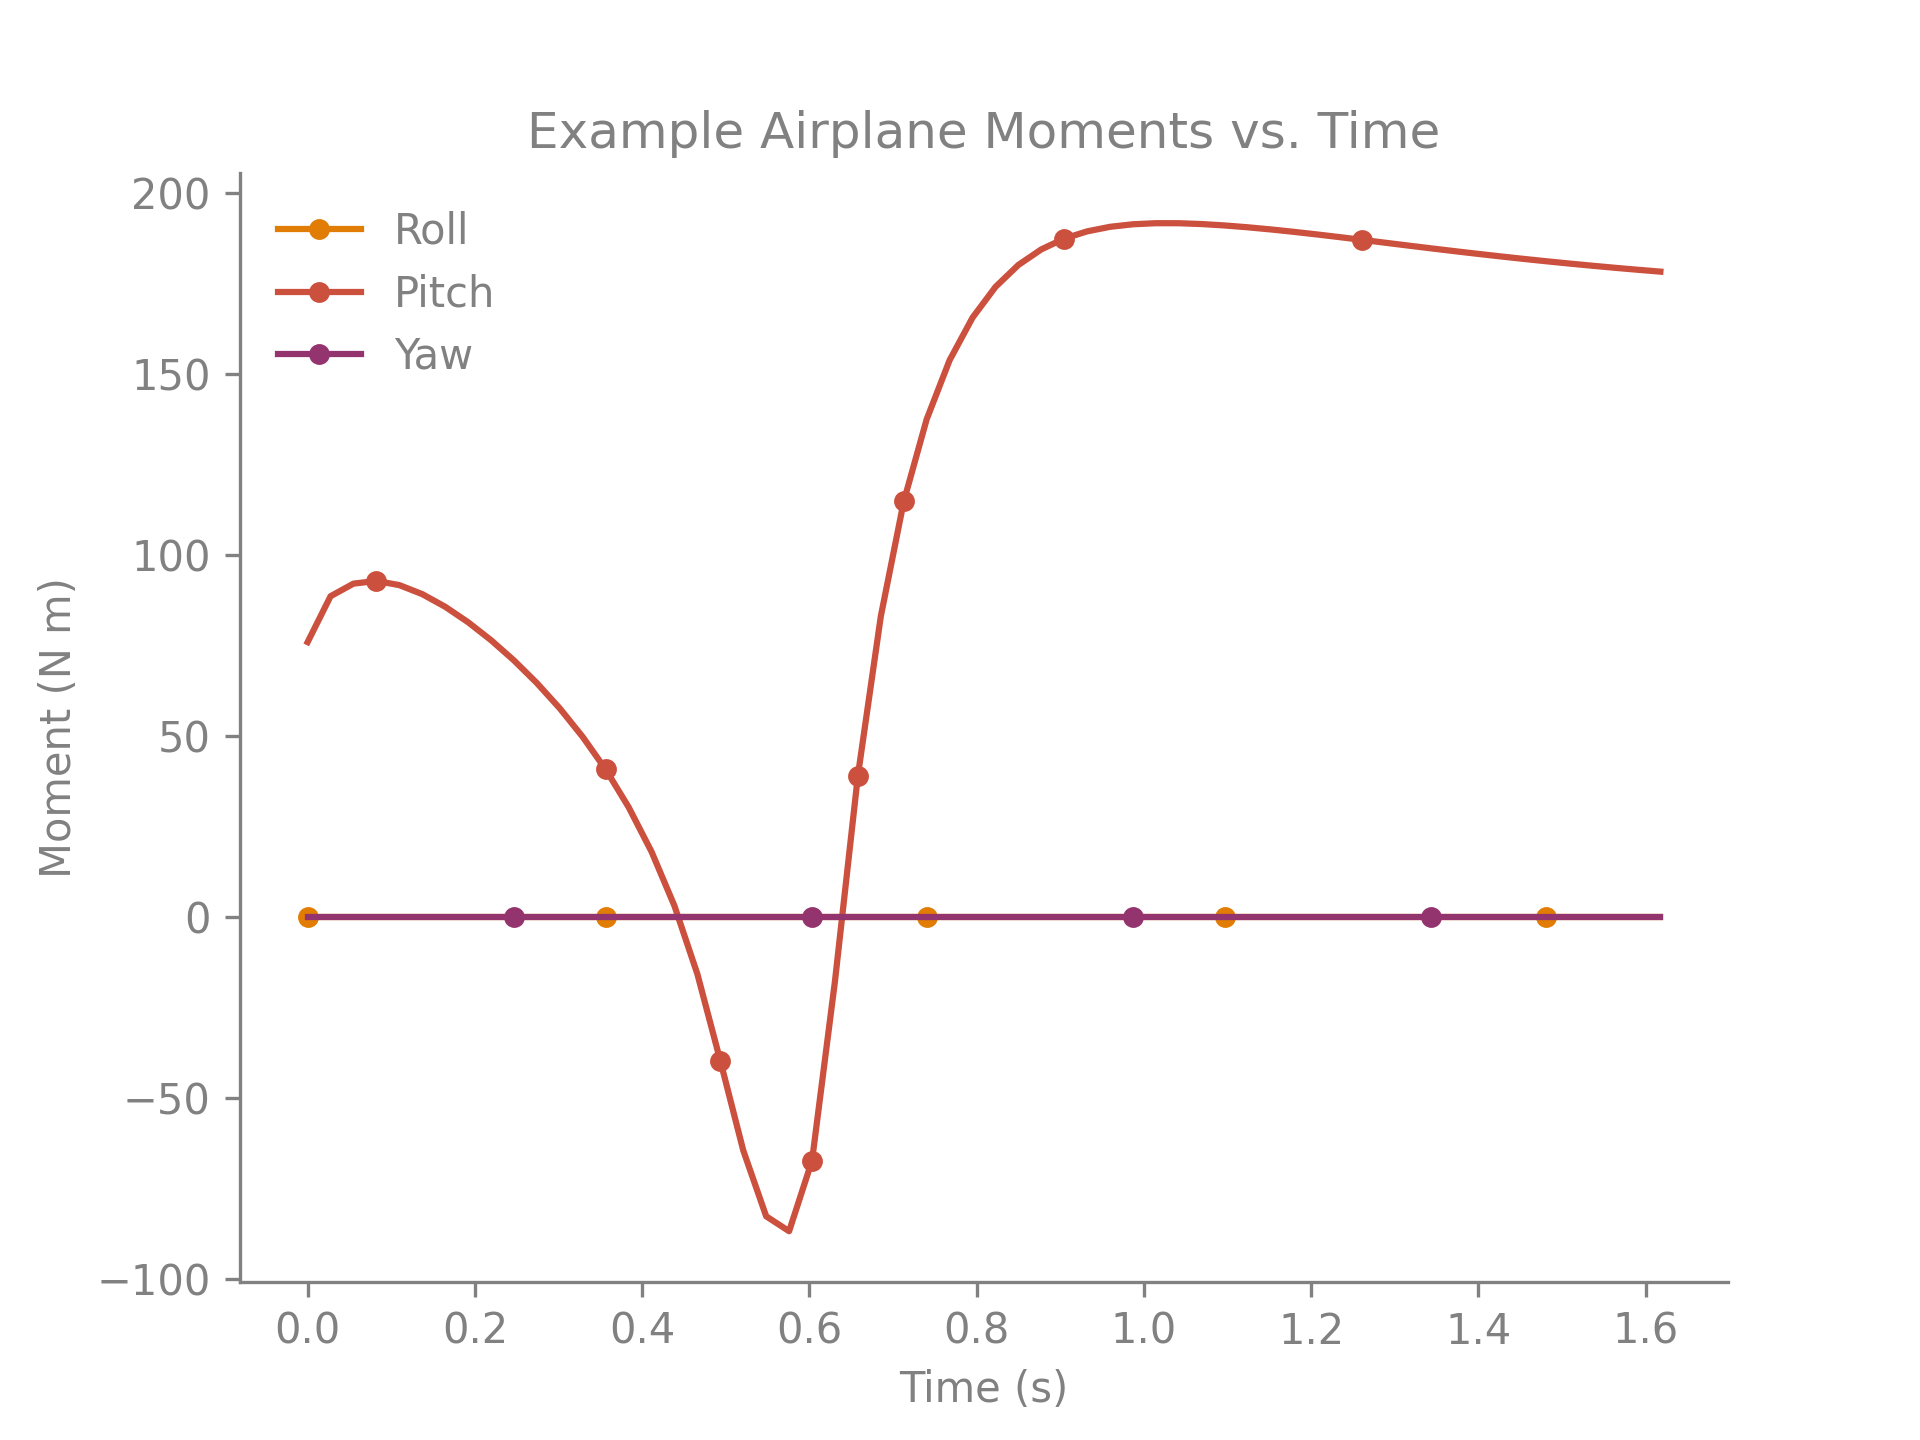
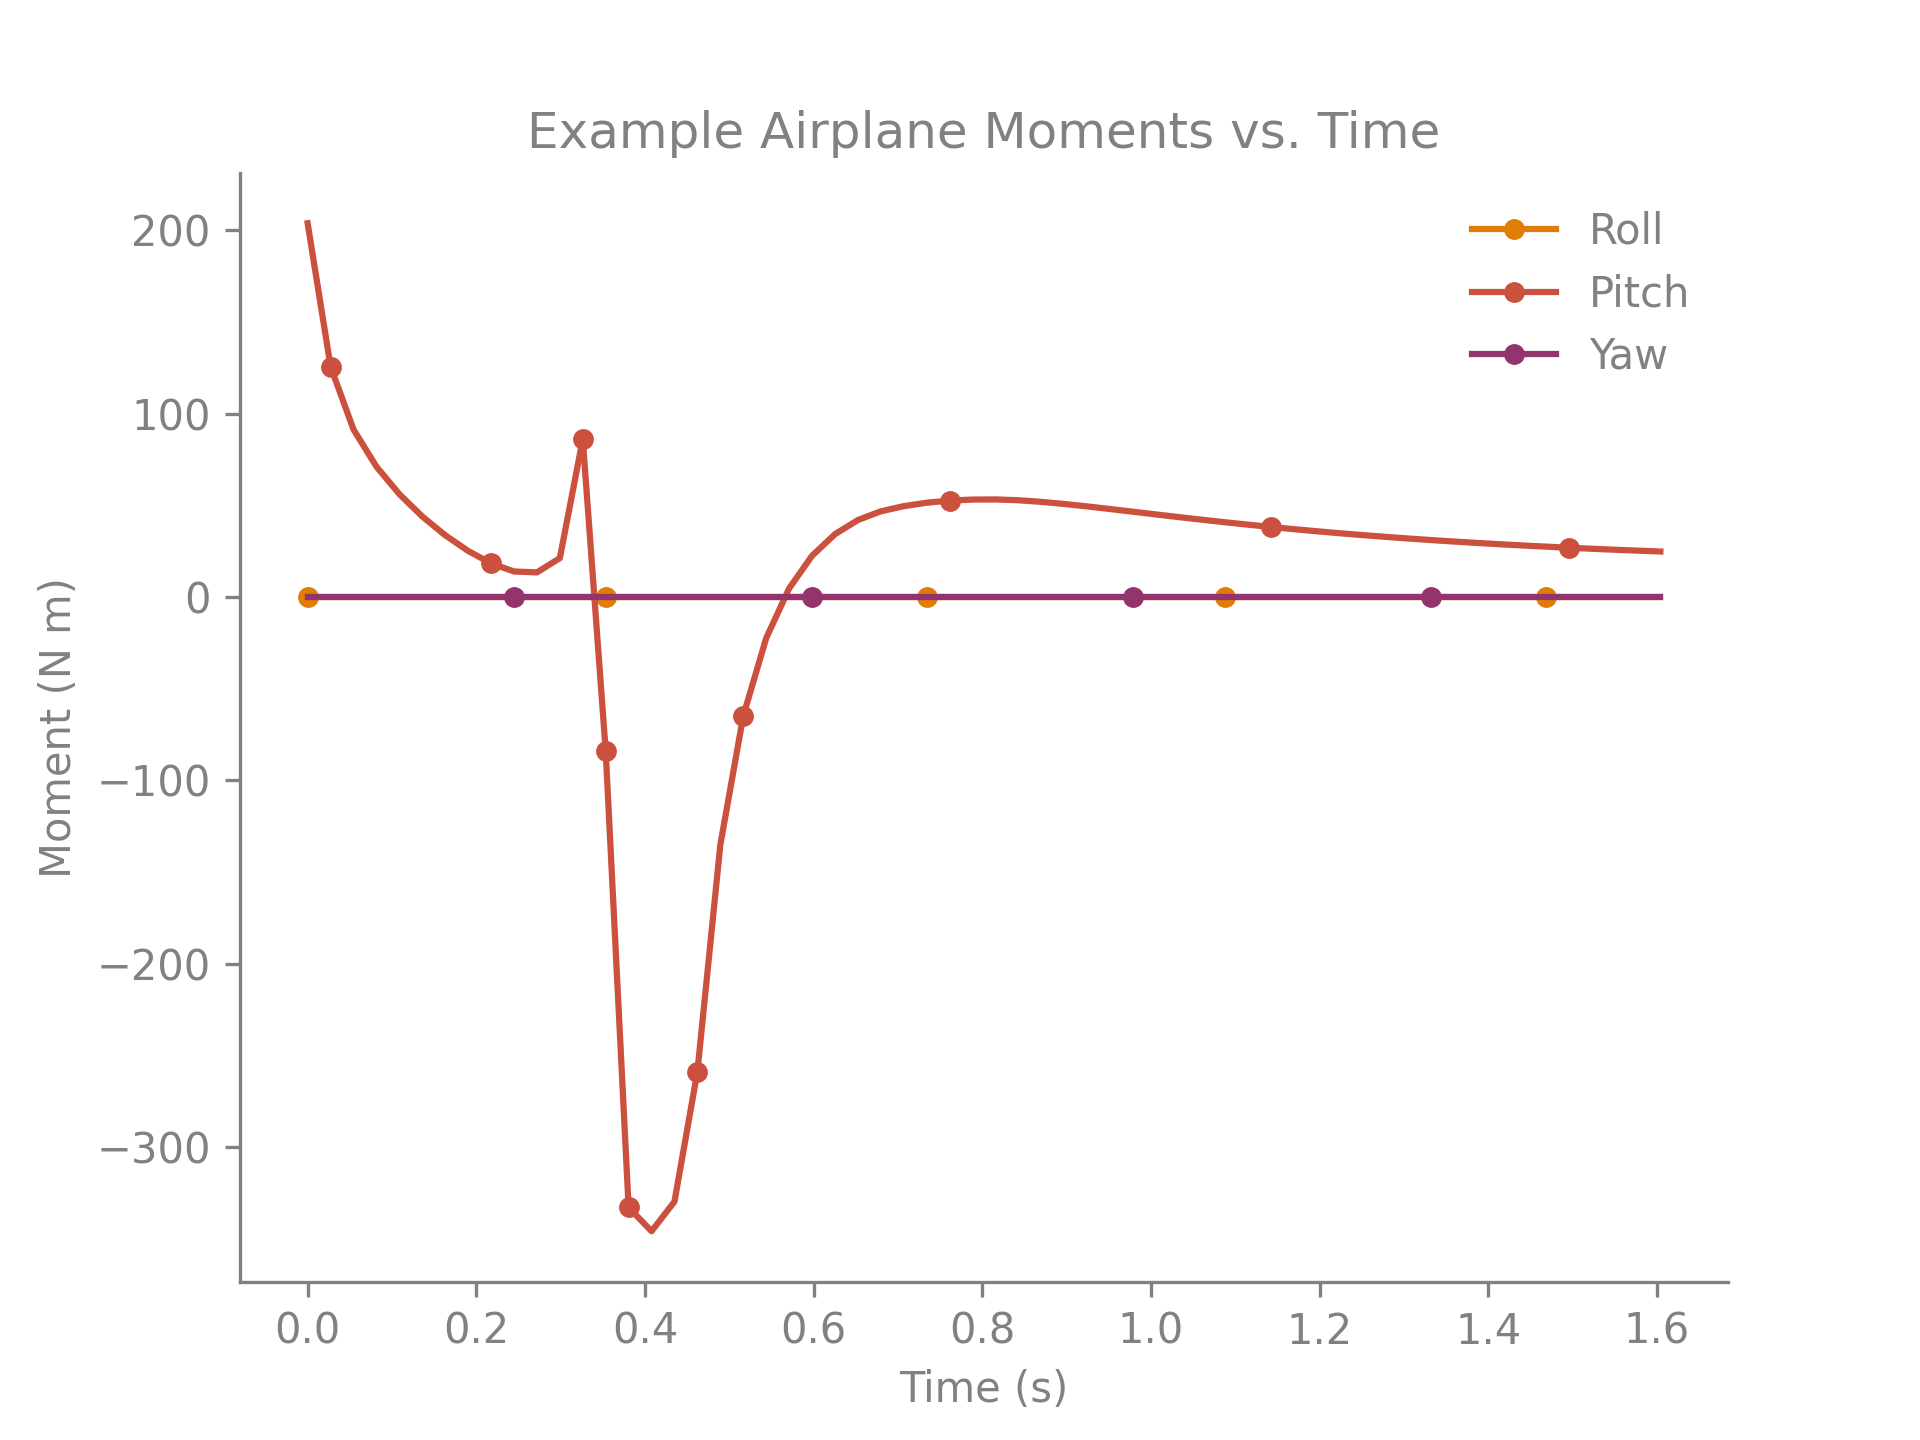
I updated the README to use the new syntax for the example code and to use new images for example outputs.

diff --git a/examples/unsteady_ring_vortex_lattice_method_solver_variable_formation.py b/examples/unsteady_ring_vortex_lattice_method_solver_variable_formation.py
@@ -16,10 +16,10 @@ lead_airplane = ps.geometry.airplane.Airplane(
                     airfoil=ps.geometry.airfoil.Airfoil(
                         name="naca0012",
                     ),
-                    num_spanwise_panels=8,
+                    num_spanwise_panels=10,
                     chord=1.75,
                     control_surface_symmetry_type="symmetric",
-                    spanwise_spacing="uniform",
+                    spanwise_spacing="cosine",
                 ),
                 ps.geometry.wing_cross_section.WingCrossSection(
                     airfoil=ps.geometry.airfoil.Airfoil(
@@ -33,7 +33,7 @@ lead_airplane = ps.geometry.airplane.Airplane(
                 ),
             ],
             name="Main Wing",
-            Ler_Gs_Cgs=(0.0, 0.5, 0.0),
+            Ler_Gs_Cgs=(0.0, 0.25, 0.0),
             angles_Gs_to_Wn_ixyz=(0.0, 5.0, 0.0),
             symmetric=True,
             symmetryNormal_G=(0.0, 1.0, 0.0),
@@ -68,7 +68,7 @@ lead_airplane_movement = ps.movements.airplane_movement.AirplaneMovement(
                     ]
                 ),
             ],
-            ampAngles_Gs_to_Wn_ixyz=(15.0, 0.0, 0.0),
+            ampAngles_Gs_to_Wn_ixyz=(25.0, 0.0, 0.0),
             periodAngles_Gs_to_Wn_ixyz=(1.0, 0.0, 0.0),
             spacingAngles_Gs_to_Wn_ixyz=("sine", "sine", "sine"),
             phaseAngles_Gs_to_Wn_ixyz=(0.0, 0.0, 0.0),
@@ -90,7 +90,7 @@ lead_airplane_movement = ps.movements.airplane_movement.AirplaneMovement(
                     ]
                 ),
             ],
-            ampAngles_Gs_to_Wn_ixyz=(15.0, 0.0, 0.0),
+            ampAngles_Gs_to_Wn_ixyz=(25.0, 0.0, 0.0),
             periodAngles_Gs_to_Wn_ixyz=(1.0, 0.0, 0.0),
             spacingAngles_Gs_to_Wn_ixyz=("sine", "sine", "sine"),
             phaseAngles_Gs_to_Wn_ixyz=(0.0, 0.0, 0.0),
@@ -107,10 +107,10 @@ trailing_right_airplane = ps.geometry.airplane.Airplane(
                     airfoil=ps.geometry.airfoil.Airfoil(
                         name="naca0012",
                     ),
-                    num_spanwise_panels=8,
+                    num_spanwise_panels=10,
                     chord=1.75,
                     control_surface_symmetry_type="symmetric",
-                    spanwise_spacing="uniform",
+                    spanwise_spacing="cosine",
                 ),
                 ps.geometry.wing_cross_section.WingCrossSection(
                     airfoil=ps.geometry.airfoil.Airfoil(
@@ -124,7 +124,7 @@ trailing_right_airplane = ps.geometry.airplane.Airplane(
                 ),
             ],
             name="Main Wing",
-            Ler_Gs_Cgs=(0.0, 0.5, 0.0),
+            Ler_Gs_Cgs=(0.0, 0.25, 0.0),
             angles_Gs_to_Wn_ixyz=(0.0, 5.0, 0.0),
             symmetric=True,
             symmetryNormal_G=(0.0, 1.0, 0.0),
@@ -156,7 +156,7 @@ trailing_right_airplane_movement = ps.movements.airplane_movement.AirplaneMoveme
                     ].wing_cross_sections[1]
                 ),
             ],
-            ampAngles_Gs_to_Wn_ixyz=(15.0, 0.0, 0.0),
+            ampAngles_Gs_to_Wn_ixyz=(25.0, 0.0, 0.0),
             periodAngles_Gs_to_Wn_ixyz=(1.0, 0.0, 0.0),
             spacingAngles_Gs_to_Wn_ixyz=("sine", "sine", "sine"),
             phaseAngles_Gs_to_Wn_ixyz=(0.0, 0.0, 0.0),
@@ -175,7 +175,7 @@ trailing_right_airplane_movement = ps.movements.airplane_movement.AirplaneMoveme
                     ].wing_cross_sections[1]
                 ),
             ],
-            ampAngles_Gs_to_Wn_ixyz=(15.0, 0.0, 0.0),
+            ampAngles_Gs_to_Wn_ixyz=(25.0, 0.0, 0.0),
             periodAngles_Gs_to_Wn_ixyz=(1.0, 0.0, 0.0),
             spacingAngles_Gs_to_Wn_ixyz=("sine", "sine", "sine"),
             phaseAngles_Gs_to_Wn_ixyz=(0.0, 0.0, 0.0),
@@ -192,10 +192,10 @@ trailing_left_airplane = ps.geometry.airplane.Airplane(
                     airfoil=ps.geometry.airfoil.Airfoil(
                         name="naca0012",
                     ),
-                    num_spanwise_panels=8,
+                    num_spanwise_panels=10,
                     chord=1.75,
                     control_surface_symmetry_type="symmetric",
-                    spanwise_spacing="uniform",
+                    spanwise_spacing="cosine",
                 ),
                 ps.geometry.wing_cross_section.WingCrossSection(
                     airfoil=ps.geometry.airfoil.Airfoil(
@@ -209,7 +209,7 @@ trailing_left_airplane = ps.geometry.airplane.Airplane(
                 ),
             ],
             name="Main Wing",
-            Ler_Gs_Cgs=(0.0, 0.5, 0.0),
+            Ler_Gs_Cgs=(0.0, 0.25, 0.0),
             angles_Gs_to_Wn_ixyz=(0.0, 5.0, 0.0),
             symmetric=True,
             symmetryNormal_G=(0.0, 1.0, 0.0),
@@ -241,7 +241,7 @@ left_airplane_movement = ps.movements.airplane_movement.AirplaneMovement(
                     ].wing_cross_sections[1]
                 ),
             ],
-            ampAngles_Gs_to_Wn_ixyz=(15.0, 0.0, 0.0),
+            ampAngles_Gs_to_Wn_ixyz=(25.0, 0.0, 0.0),
             periodAngles_Gs_to_Wn_ixyz=(1.0, 0.0, 0.0),
             spacingAngles_Gs_to_Wn_ixyz=("sine", "sine", "sine"),
             phaseAngles_Gs_to_Wn_ixyz=(0.0, 0.0, 0.0),
@@ -260,7 +260,7 @@ left_airplane_movement = ps.movements.airplane_movement.AirplaneMovement(
                     ].wing_cross_sections[1]
                 ),
             ],
-            ampAngles_Gs_to_Wn_ixyz=(15.0, 0.0, 0.0),
+            ampAngles_Gs_to_Wn_ixyz=(25.0, 0.0, 0.0),
             periodAngles_Gs_to_Wn_ixyz=(1.0, 0.0, 0.0),
             spacingAngles_Gs_to_Wn_ixyz=("sine", "sine", "sine"),
             phaseAngles_Gs_to_Wn_ixyz=(0.0, 0.0, 0.0),
@@ -270,7 +270,7 @@ left_airplane_movement = ps.movements.airplane_movement.AirplaneMovement(
 
 # Define an OperatingPoint. This defines the state at which all the Airplanes are
 # operating.
-operating_point = ps.operating_point.OperatingPoint(vCg__E=10.0, alpha=0.0)
+operating_point = ps.operating_point.OperatingPoint(vCg__E=15.0, alpha=0.0)
 
 # Define the OperatingPoint's OperatingPointMovement.
 operating_point_movement = ps.movements.operating_point_movement.OperatingPointMovement(
@@ -293,7 +293,7 @@ movement = ps.movements.movement.Movement(
         left_airplane_movement,
     ],
     operating_point_movement=operating_point_movement,
-    num_cycles=2,
+    num_cycles=3,
 )
 
 # Delete the extraneous pointers to the AirplaneMovements and the

diff --git a/pterasoftware/_aerodynamics.py b/pterasoftware/_aerodynamics.py
@@ -468,7 +468,7 @@ def collapsed_velocities_from_ring_vortices(
     simulation performance, it does cause a performance drop for the less intense
     steady simulations.
 
-    # DOCUMENT: Update docstring parameters' descriptions and types.
+    DOCUMENT: Update docstring parameters' descriptions and types.
     :param stackP_GP1_CgP1: 2D array of floats
         This variable is an array of shape (N x 3), where N is the number of points.
         Each row contains the x, y, and z float coordinates of that point's position
@@ -559,7 +559,7 @@ def collapsed_velocities_from_ring_vortices_chordwise_segments(
     simulation performance, it does cause a performance drop for the less intense
     steady simulations.
 
-    # DOCUMENT: Update docstring parameters' descriptions and types.
+    DOCUMENT: Update docstring parameters' descriptions and types.
     :param stackP_GP1_CgP1: 2D array of floats
         This variable is an array of shape (N x 3), where N is the number of points.
         Each row contains the x, y, and z float coordinates of that point's position
@@ -645,7 +645,7 @@ def expanded_velocities_from_ring_vortices(
     simulation performance, it does cause a performance drop for the less intense
     steady simulations.
 
-    # DOCUMENT: Update docstring parameters' descriptions and types.
+    DOCUMENT: Update docstring parameters' descriptions and types.
     :param stackP_GP1_CgP1: 2D array of floats
         This variable is an array of shape (N x 3), where N is the number of points.
         Each row contains the x, y, and z float coordinates of that point's position
@@ -736,7 +736,7 @@ def collapsed_velocities_from_horseshoe_vortices(
     simulation performance, it does cause a performance drop for the less intense
     steady simulations.
 
-    # DOCUMENT: Update docstring parameters' descriptions and types.
+    DOCUMENT: Update docstring parameters' descriptions and types.
     :param stackP_GP1_CgP1: 2D array of floats
         This variable is an array of shape (N x 3), where N is the number of points.
         Each row contains the x, y, and z float coordinates of that point's position
@@ -825,7 +825,7 @@ def expanded_velocities_from_horseshoe_vortices(
     simulation performance, it does cause a performance drop for the less intense
     steady simulations.
 
-    # DOCUMENT: Update docstring parameters' descriptions and types.
+    DOCUMENT: Update docstring parameters' descriptions and types.
     :param stackP_GP1_CgP1: 2D array of floats
         This variable is an array of shape (N x 3), where N is the number of points.
         Each row contains the x, y, and z float coordinates of that point's position
@@ -1003,7 +1003,7 @@ def _collapsed_velocities_from_line_vortices(
     simulation performance, it does cause a performance drop for the less intense
     steady simulations.
 
-    # DOCUMENT: Update docstring parameters' types and descriptions.
+    DOCUMENT: Update docstring parameters' types and descriptions.
     :param stackP_GP1_CgP1: 2D array of floats
         This variable is an array of shape (N x 3), where N is the number of points.
         Each row contains the x, y, and z float coordinates of that point's position
@@ -1139,7 +1139,7 @@ def _expanded_velocities_from_line_vortices(
     simulation performance, it does cause a performance drop for the less intense
     steady simulations.
 
-     # DOCUMENT: Update docstring parameters' types and descriptions.
+    DOCUMENT: Update docstring parameters' types and descriptions.
     :param stackP_GP1_CgP1: 2D array of floats
         This variable is an array of shape (N x 3), where N is the number of points.
         Each row contains the x, y, and z float coordinates of that point's position

diff --git a/gui/main.py b/gui/main.py
@@ -6,6 +6,9 @@ import sys
 import time
 import importlib
 
+# Add the gui directory to the Python path so ui_resources can be imported.
+sys.path.insert(0, os.path.dirname(os.path.abspath(__file__)))
+
 from PySide6.QtCore import Qt
 from PySide6.QtGui import QPixmap
 from PySide6.QtWidgets import QMainWindow, QApplication, QSplashScreen, QDialog
@@ -13,8 +16,8 @@ from PySide6.QtWidgets import QMainWindow, QApplication, QSplashScreen, QDialog
 from _resources.main_window import Ui_MainWindowDesign
 from _resources.textdialog import Ui_TextAboutDialog
 
-# Add the gui directory to the Python path so ui_resources can be imported.
-sys.path.insert(0, os.path.dirname(os.path.abspath(__file__)))
+# Get the project root directory (parent of the gui directory).
+project_root = os.path.dirname(os.path.dirname(os.path.abspath(__file__)))
 
 
 class TextAboutDialog(QDialog):
@@ -61,7 +64,8 @@ class MainWindow(QMainWindow, Ui_MainWindowDesign):
 
     def exampleMenu(self, ex_num):
         files = []
-        for i, filename in enumerate(os.listdir("examples")):
+        examples_dir = os.path.join(project_root, "examples")
+        for i, filename in enumerate(os.listdir(examples_dir)):
             f = "examples." + filename
             files.append(f)
         file = files[ex_num]
@@ -84,14 +88,16 @@ class MainWindow(QMainWindow, Ui_MainWindowDesign):
 
         self.dialog = TextAboutDialog("About Ptera Software")
         doc = QTextDocument()
-        doc.setMarkdown(_read_file("README.md"))
+        readme_path = os.path.join(project_root, "README.md")
+        doc.setMarkdown(_read_file(readme_path))
         self.dialog.ui.textEdit.setDocument(doc)
         self.dialog.show()
 
 
 if __name__ == "__main__":
     app = QApplication(sys.argv)
-    pixmap = QPixmap("docs/logo.png")
+    logo_path = os.path.join(project_root, "docs", "logo.png")
+    pixmap = QPixmap(logo_path)
     splash = QSplashScreen(pixmap)
     # noinspection PyUnresolvedReferences
     splash.setWindowFlags(Qt.WindowStaysOnTopHint)

diff --git a/pterasoftware/_parameter_validation.py b/pterasoftware/_parameter_validation.py
@@ -109,7 +109,7 @@ def int_in_range_return_int(
                 raise ValueError(f"{name} must be less than or equal to {max_val}.")
         else:
             if not value < max_val:
-                raise ValueError(f"{name} must be less than {min_val}.")
+                raise ValueError(f"{name} must be less than {max_val}.")
 
     return int(value)
 
@@ -355,8 +355,8 @@ def arrayLike_of_threeD_number_vectorLikes_return_float(vectors, name):
     array-like objects with shape (3,)). It then returns it as a (...,3) numpy array
     of floats. name must be a string.
 
-    Accepts both single vectors of shape (2,) and arrays of vectors with shape
-    (..., 2) where the last dimension must be 2.
+    Accepts both single vectors of shape (3,) and arrays of vectors with shape
+    (..., 3) where the last dimension must be 3.
 
     Note: np.nan, np.inf, and -np.inf won't pass this test."""
     name = string_return_string(name, "name")

diff --git a/README.md b/README.md
@@ -189,16 +189,27 @@ import pterasoftware as ps
 airplane = ps.geometry.airplane.Airplane(
     wings=[
         ps.geometry.wing.Wing(
-            symmetric=True,
             wing_cross_sections=[
                 ps.geometry.wing_cross_section.WingCrossSection(
-                    airfoil=ps.geometry.airfoil.Airfoil(name="naca2412"),
+                    airfoil=ps.geometry.airfoil.Airfoil(
+                        name="naca2412",
+                    ),
+                    num_spanwise_panels=8,
+                    control_surface_symmetry_type="asymmetric",
+                    spanwise_spacing="cosine",
                 ),
                 ps.geometry.wing_cross_section.WingCrossSection(
-                    y_le=5.0,
-                    airfoil=ps.geometry.airfoil.Airfoil(name="naca2412"),
+                    airfoil=ps.geometry.airfoil.Airfoil(
+                        name="naca2412",
+                    ),
+                    num_spanwise_panels=None,
+                    Lp_Wcsp_Lpp=(0, 5, 0),
+                    control_surface_symmetry_type="asymmetric",
                 ),
             ],
+            symmetric=True,
+            symmetryNormal_G=(0, 1, 0),
+            symmetryPoint_G_Cg=(0, 0, 0),
         ),
     ],
 )
@@ -320,11 +331,13 @@ where applicable.
 * Suhas Kodali
 * Peter Sharpe
 * Zach Tait
+* Jonah Jaffe
 * Ramesh Agarwal
+* E. Farrell Helbling
+* Raphael Zufferey
 * Joseph Katz
 * Allen Plotkin
 * Austin Stover
-* E. Farrell Helbling
 * AeroSandbox
 * Black
 * Codecov
